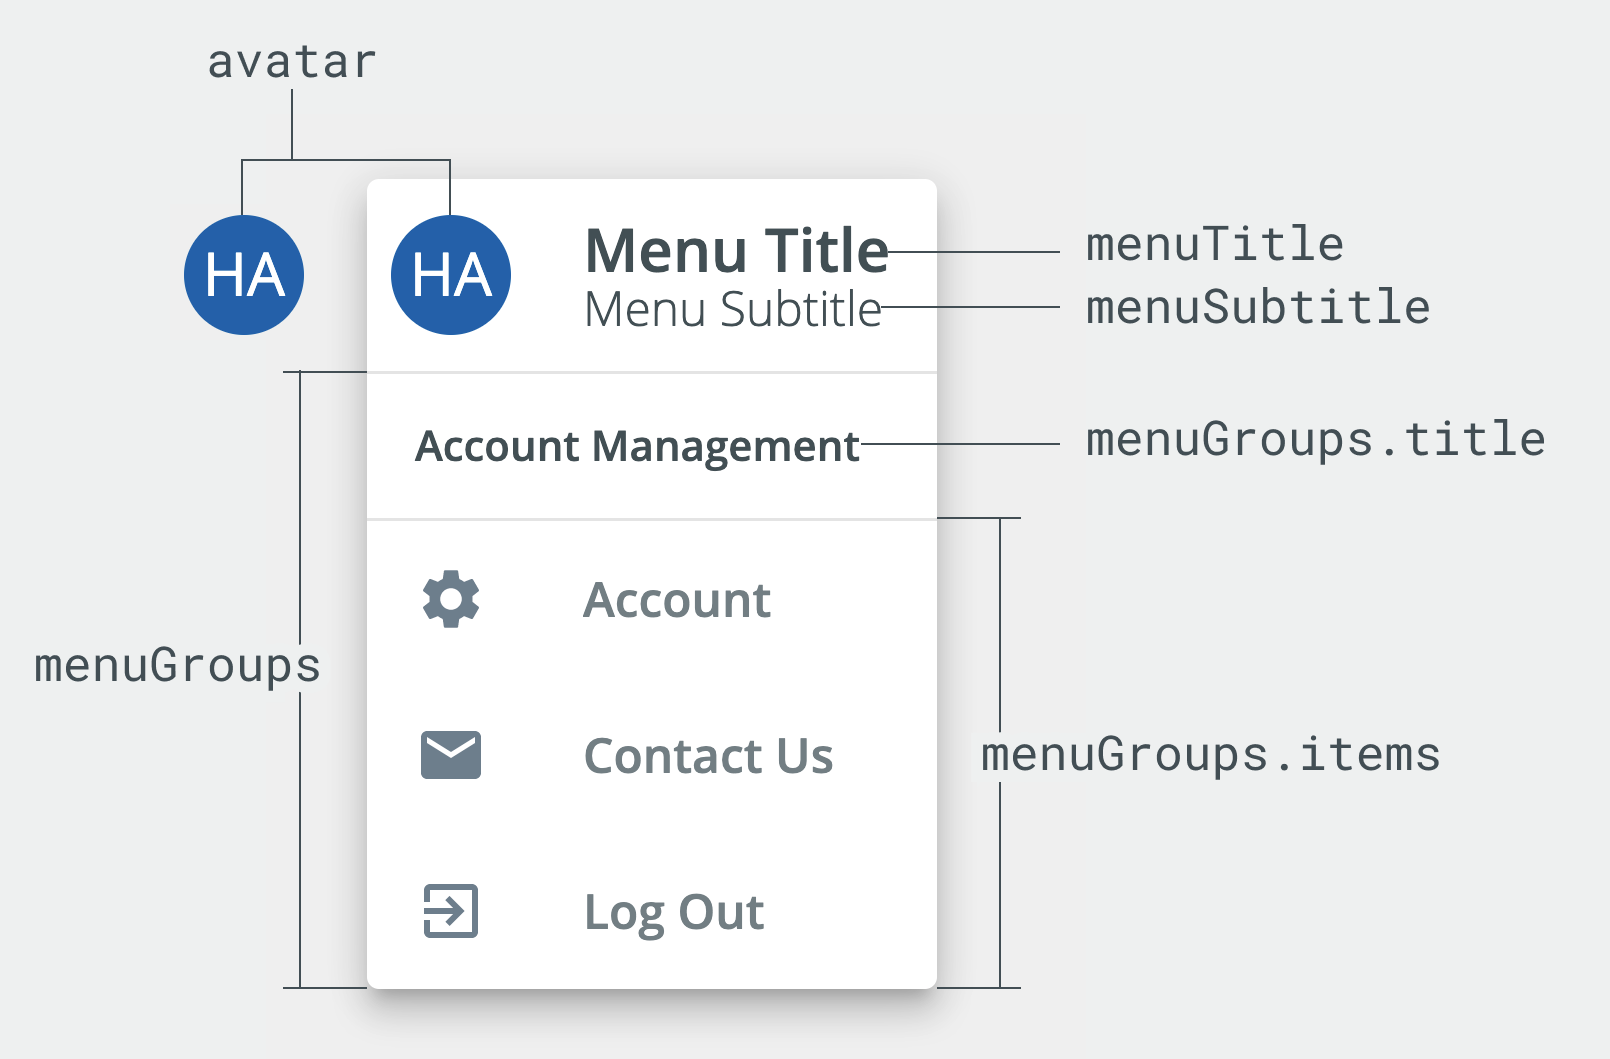
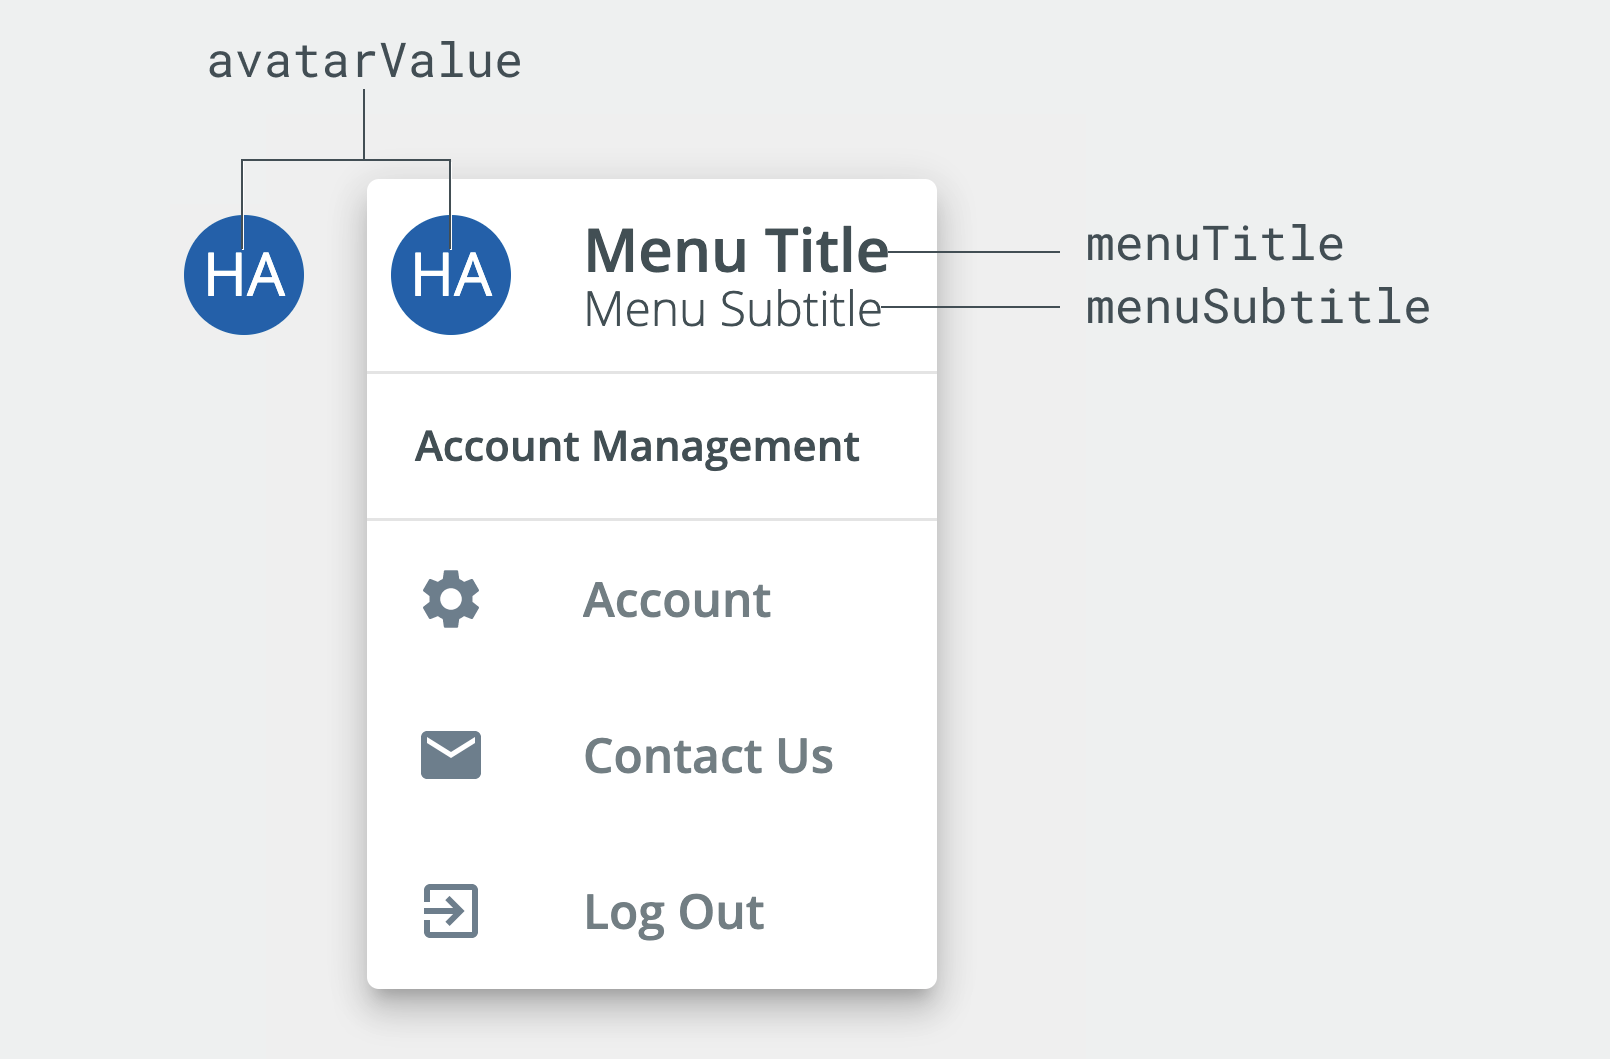
Fix doc

diff --git a/docs/UserMenu.md b/docs/UserMenu.md
@@ -9,12 +9,13 @@ The `<pxb-user-menu>` is an Avatar that opens a Menu when clicked. It is typical
 
 </div>
 
-The Menu header can be constructed by supplying a `menuTitle` and optional `menuSubtitle`, or your own custom content. The Menu body is entirely custom content. See the API section below for more details.  
+The Menu header can be constructed by supplying a `menuTitle` and optional `menuSubtitle`, or your own custom content. The Menu body is entirely custom content. See the API section below for more details.
 
 ## Usage
 
 <div style="width: 100%; text-align: center">
-    <img width="100%" style="max-width: 500px" alt="User Menu Anatomy" src="./images/userMenuAnatomy.png">
+    <img width="100%" style="max-width: 600px" alt="User Menu Anatomy" src="./images/userMenuAnatomy.png">
+    <img width="100%" style="max-width: 600px" alt="User Menu Anatomy Selector" src="./images/userMenuAnatomy2.png">
 </div>
 
 ```typescript
@@ -42,19 +43,19 @@ const items = [
     {
         title: 'Log Out',
         icon: 'logout',
-    }
+    },
 ];
 ```
 
 ```html
-<pxb-user-menu avatarValue="HA" menuTitle='Sample Title' [(open)]="open">
-    <mat-nav-list pxb-body>
+<pxb-user-menu avatarValue="HA" menuTitle="Sample Title" [(open)]="open">
+    <mat-nav-list pxb-menu-body>
         <pxb-info-list-item *ngFor="let item of items" [dense]="true" (click)="open=false">
             <mat-icon pxb-icon>{{item.icon}}</mat-icon>
             <div pxb-title>{{item.title}}</div>
         </pxb-info-list-item>
     </mat-nav-list>
-</pxb-user-menu> 
+</pxb-user-menu>
 ```
 
 ## API
@@ -63,22 +64,22 @@ Parent element (`<pxb-user-menu>`) attributes:
 
 <div style="overflow: auto;">
 
-| @Input       | Description                                      | Type                        | Required | Default                                                                                                                     |
-| ------------ | ------------------------------------------------ | --------------------------- | -------- | --------------------------------------------------------------------------------------------------------------------------- |
-| avatarImage  | Image source for avatar                          | `string`                    | no       |                                                                                                                             |
-| avatarValue  | Text value for avatar                            | `string`                    | no       |                                                                                                                             |
-| menuSubtitle | Subtitle shown when menu is open                 | `string`                    | no       |                                                                                                                             |
-| menuTitle    | Title shown when menu is open                    | `string`                    | no       |                                                                                                                             |
-| positions    | Where to render the menu relative to the avatar  | `ConnectionPositionPair[]`  | no       | `[new ConnectionPositionPair(` `{ originX: 'start', ` `originY: 'top' } ,` `{ overlayX: 'start', ` ` overlayY: 'top' })] `  |
+| @Input       | Description                                     | Type                       | Required | Default                                                                                                                |
+| ------------ | ----------------------------------------------- | -------------------------- | -------- | ---------------------------------------------------------------------------------------------------------------------- |
+| avatarImage  | Image source for avatar                         | `string`                   | no       |                                                                                                                        |
+| avatarValue  | Text value for avatar                           | `string`                   | no       |                                                                                                                        |
+| menuSubtitle | Subtitle shown when menu is open                | `string`                   | no       |                                                                                                                        |
+| menuTitle    | Title shown when menu is open                   | `string`                   | no       |                                                                                                                        |
+| positions    | Where to render the menu relative to the avatar | `ConnectionPositionPair[]` | no       | `[new ConnectionPositionPair(` `{ originX: 'start',` `originY: 'top' } ,` `{ overlayX: 'start',` `overlayY: 'top' })]` |
 
 </div>
 
 <div style="overflow: auto;">
 
-| @Output        | Description                                      | Type                    |
-| -------------- | ------------------------------------------------ | ----------------------- | 
-| backdropClick  | Emits event when backdrop is clicked             | `EventEmitter<void>`    | 
-| openChange     | Emits an event when the open prop changes        | `EventEmitter<boolean>` | 
+| @Output       | Description                               | Type                    |
+| ------------- | ----------------------------------------- | ----------------------- |
+| backdropClick | Emits event when backdrop is clicked      | `EventEmitter<void>`    |
+| openChange    | Emits an event when the open prop changes | `EventEmitter<boolean>` |
 
 </div>
 
@@ -86,12 +87,12 @@ The following child elements are projected into `<pxb-user-menu>`:
 
 <div style="overflow: auto;">
 
-| Selector           | Description                                                                    | Required | 
-| ------------------ | ------------------------------------------------------------------------------ | -------- | 
-| [pxb-avatar]       | Custom avatar to show, alternative to `avatarImage` or `avatarValue` prop      | no       | 
-| [pxb-menu-avatar]  | Custom menu avatar to show                                                     | no       |
-| [pxb-menu-header]  | Custom menu header content                                                     | no       |
-| [pxb-menu-body]    | Custom menu body content                                                       | no       | 
+| Selector          | Description                                                               | Required |
+| ----------------- | ------------------------------------------------------------------------- | -------- |
+| [pxb-avatar]      | Custom avatar to show, alternative to `avatarImage` or `avatarValue` prop | no       |
+| [pxb-menu-avatar] | Custom menu avatar to show                                                | no       |
+| [pxb-menu-header] | Custom menu header content                                                | no       |
+| [pxb-menu-body]   | Custom menu body content                                                  | no       |
 
 </div>
 
@@ -99,10 +100,10 @@ The following child elements are projected into `<pxb-user-menu>`:
 
 Each PX Blue component has classes which can be used to override component styles:
 
-| Name                                     | Description                                  |
-| ---------------------------------------- | -------------------------------------------- |
-| pxb-user-menu-avatar                     | Styles applied to avatar element             |
-| pxb-user-menu-container                  | Styles applied to the menu overlay           |
-| pxb-user-menu-header                     | Styles applied to the generated menu header  |
-| pxb-user-menu-header-avatar              | Styles applied to the menu header avatar     |
-| pxb-user-menu-overlay-backdrop           | Styles applied to the menu overlay backdrop  |
+| Name                           | Description                                 |
+| ------------------------------ | ------------------------------------------- |
+| pxb-user-menu-avatar           | Styles applied to avatar element            |
+| pxb-user-menu-overlay          | Styles applied to the menu overlay          |
+| pxb-user-menu-header           | Styles applied to the generated menu header |
+| pxb-user-menu-header-avatar    | Styles applied to the menu header avatar    |
+| pxb-user-menu-overlay-backdrop | Styles applied to the menu overlay backdrop |
